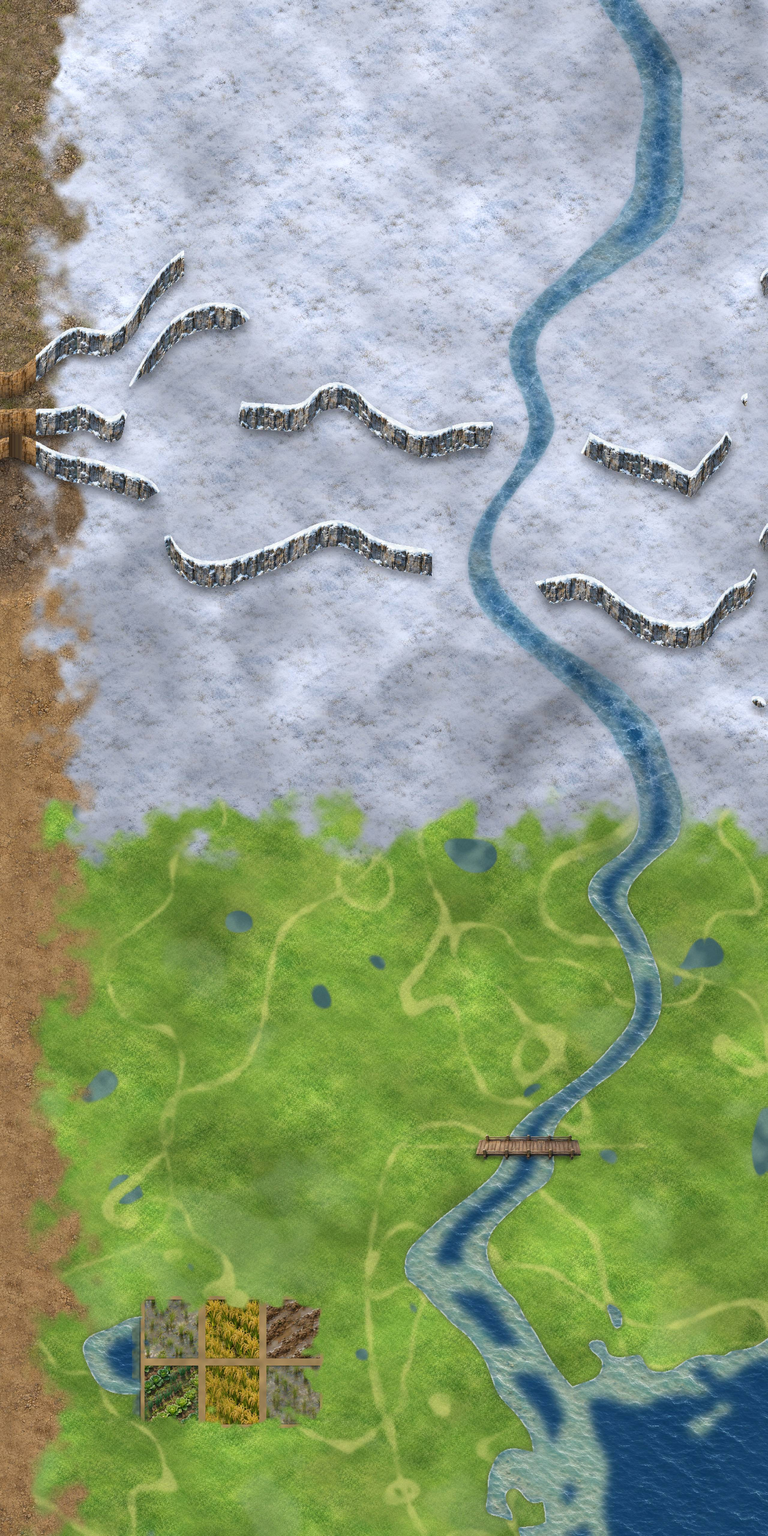
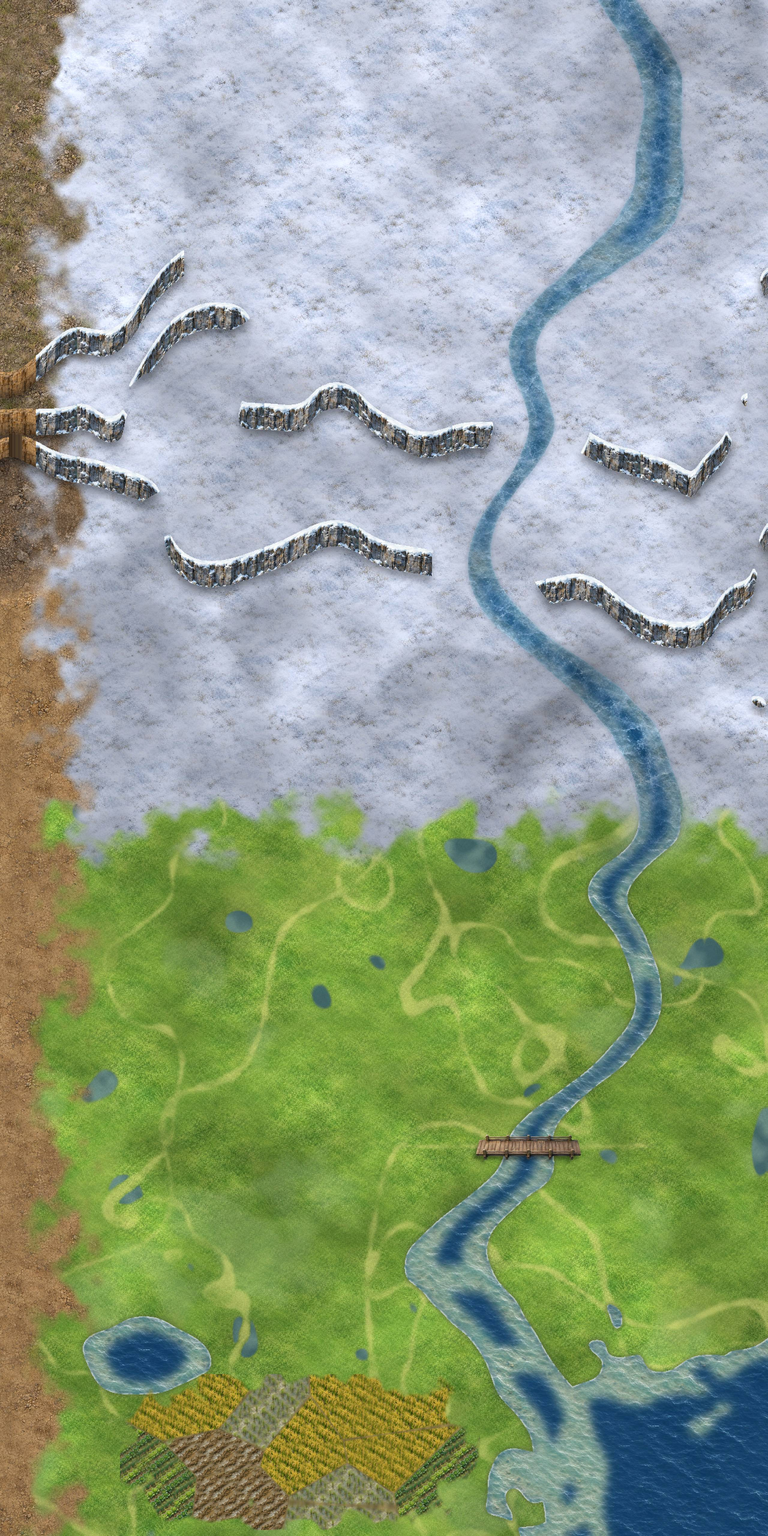
删除所有农田、村落、房屋；草原最南端用代码生成一块农田示例
Claude-Session: https://claude.ai/code/session_011WrGna6yNwTfpmyp4CxMHs

Changed region(s): [[0.1562, 0.8438, 0.625, 1.0]]

diff --git a/tools/build_mountain.py b/tools/build_mountain.py
@@ -131,21 +131,28 @@ dirt=tile_big(G[0],Wd,Wd,99)*1.14
 a=(up(ramp)*0.9)[...,None]
 base=base*(1-a)+dirt*a
 del dirt,a
-# ---------- 农田区（绿地西南，田埂分块）----------
-FX0,FX1,FY0,FY1=1500,1820,2160,2380
+# ---------- 农田（代码生成示例）：草原最南端 ----------
+FX0,FX1,FY0,FY1=1480,2080,2290,2550
 S1=load('farm1.png'); fw_,fh_=(FX1-FX0)*HD,(FY1-FY0)*HD
-tl=[tile_big(seamless(S1[250:504,x0+8:x0+262]),fw_,fh_,300+i) for i,x0 in enumerate((32,338,645,951))]
-dirtc=np.median(S1[790:860,395:440].reshape(-1,3),0).astype(np.float32)
-watc=np.median(S1[700:1000,750:780].reshape(-1,3),0).astype(np.float32)
-F=np.zeros((fh_,fw_,3),np.float32)+dirtc*(1+0.05*fbm(30,401,2,fw_,fh_)[...,None])
-types=[0,1,2,3,1,0]; cwp,chp=(fw_-30)//3,fh_//2
-for i,t_ in enumerate(types):
-    r_,c_=divmod(i,3); x0=30+c_*cwp+12; x1=30+(c_+1)*cwp-12; y0=r_*chp+12; y1=(r_+1)*chp-12
-    F[y0:y1,x0:x1]=tl[t_][y0:y1,x0:x1]; F[y0:y0+3,x0:x1]*=0.7; F[y1-3:y1,x0:x1]*=0.8
-F[:,:28]=watc*(1+0.08*fbm(12,402,2,28,fh_)[...,None]); F[:,24:30]*=0.7
-ed=np.minimum(np.minimum(np.arange(fh_)[:,None],fh_-1-np.arange(fh_)[:,None]),np.minimum(np.arange(fw_)[None,:],fw_-1-np.arange(fw_)[None,:])).astype(np.float32)
-al=sstep((ed+24*fbm(40,403,2,fw_,fh_))/46)[...,None]; F*=0.9
+tl=[tile_big(seamless(cv2.resize(S1[250:504,x0+8:x0+262],None,fx=0.5,fy=0.5,interpolation=cv2.INTER_AREA)),fw_,fh_,300+i) for i,x0 in enumerate((32,338,645,951))]
+gm=base[2000*HD:2200*HD,1500*HD:1800*HD].reshape(-1,3).mean(0)
+yy_,xx_=np.mgrid[0:fh_,0:fw_].astype(np.float32)
+sd_=np.random.default_rng(7)
+seeds=np.array([(sd_.uniform(.08,.92)*fw_,sd_.uniform(.12,.88)*fh_) for _ in range(11)],np.float32)
+dd=np.stack([np.hypot(xx_-sx,(yy_-sy)*1.25) for sx,sy in seeds],0)
+o_=np.argsort(dd,0); lab_=o_[0]; d1=np.take_along_axis(dd,o_[:1],0)[0]; d2=np.take_along_axis(dd,o_[1:2],0)[0]
+bund=sstep(1-(d2-d1)/9.0)
+cell_t=[0,1,2,3,1,0,2,1,3,0,1]
+F=np.zeros((fh_,fw_,3),np.float32)
+for i in range(len(seeds)):
+    mk=(lab_==i)[...,None]; F=np.where(mk,tl[cell_t[i]],F)
+F=F*0.9+gm*0.1
+bc=np.array([128,112,70],np.float32)*(1+0.1*fbm(20,411,2,fw_,fh_)[...,None])
+F=F*(1-0.85*bund[...,None])+bc*0.85*bund[...,None]
+sup=(np.abs((xx_-fw_/2)/(fw_/2))**3.2+np.abs((yy_-fh_/2)/(fh_/2))**3.2)
+al=sstep((1.0-sup+0.22*fbm(60,412,2,fw_,fh_))/0.28)[...,None]
 reg=base[FY0*HD:FY1*HD,FX0*HD:FX1*HD]; base[FY0*HD:FY1*HD,FX0*HD:FX1*HD]=reg*(1-al)+F*al
+del dd,o_,tl,F
 Cf=np.clip(base,0,255).astype(np.uint8); del base
 Image.fromarray(Cf[:,:2*CW]).save(OUT+'ground_w.jpg',quality=72,optimize=True)
 Image.fromarray(Cf[:,2*CW:]).save(OUT+'ground.jpg',quality=70,optimize=True)
@@ -156,7 +163,7 @@ blocked=cv2.dilate(face.astype(np.uint8),np.ones((3,3),np.uint8)).astype(bool)&~
 cc=np.array(Image.open(BUILD+'coll_center.png').convert('RGB'))      # 2560 x 1280
 C=np.zeros((N,N,3),np.uint8); C[:,CW:]=cc
 C[:,:CW+OV]=np.where((np.concatenate([np.ones((N,CW),np.float32),1-Mx],1)>0.5)[...,None],0,C[:,:CW+OV])
-C[FY0:FY1,FX0:FX1,0]=0; C[FY0:FY1,FX0:FX0+14,0]=2
+C[FY0:FY1,FX0:FX1,0]=0
 C[...,0]=np.maximum(C[...,0],blocked*1)
 Image.fromarray(C).save(OUT+'coll.png',optimize=True)
 # ---------- 物件 ----------
@@ -276,51 +283,6 @@ for _ in range(80000):
 allo=[o for o in allo if not (FX0-24<o[1]<FX1+24 and FY0-70<o[2]<FY1+24)]
 grid.clear()
 for kk,x,y in allo: grid.setdefault((int(x//CS),int(y//CS)),[]).append((x,y,8))
-FR={'fhouse1':34,'fhouse2':40,'fshed':28,'fgran':22,'fbamb1':22,'fbamb2':14,'fwillow':24,'fpeach':18,'fbuf1':16,'fbuf2':16,'fhay':12,'fpond1':26,'fpond2':26,'frack':14,'fshrine':14,'ftools':8}
-def okf(x,y):
-    if not(24<x<N-24 and 24<y<N-24): return False
-    if x>=CW and cc[y,x-CW,0]!=0: return False
-    return okp(x,y)
-def hamlet(cx,cy,rx,ry,items):
-    for name,cnt in items:
-        n=0
-        for _ in range(6000):
-            x=int(cx+rng.uniform(-rx,rx)); y=int(cy+rng.uniform(-ry,ry))
-            if okf(x,y) and far(x,y,FR[name]): put(name,x,y,FR[name]); n+=1
-            if n>=cnt: break
-hamlet(1660,2145,150,10,[('fhouse2',1),('fhouse1',2),('fshed',1),('fgran',1)])
-hamlet(1660,2118,160,18,[('fbamb1',2),('fbamb2',2),('fpeach',2)])
-hamlet(1660,2270,140,70,[('fbuf1',2),('fbuf2',2)])
-hamlet(1900,2210,30,50,[('fpond1',1),('fpond2',1)])
-hamlet(1510,2150,10,6,[('fshrine',1)])
-hamlet(1845,2270,10,80,[('fhay',3),('ftools',2)])
-for cx,cy,its in ((1650,990,[('fhouse1',2),('fhouse2',1),('fshed',1),('fgran',1),('fhay',2)]),(1600,1560,[('fhouse1',2),('fshed',1),('fhay',2),('fpeach',1)])):
-    for dx_,dy_ in ((0,0),(120,0),(-120,40),(0,90),(150,80),(-60,-80)):
-        x_,y_=cx+dx_,cy+dy_
-        if okf(x_,y_) and not nearcl[y_,x_] and wdm[y_,x_-CW]>90: hamlet(x_,y_,70,45,its); break
-n_=0
-for _ in range(60000):
-    x=int(rng.integers(CW+30,N-30)); y=int(rng.integers(1300,N-30)); xl=x-CW
-    if seaz[y,xl] or cc[y,xl,0]!=0 or not(12<drv[y,xl]<40) or not okf(x,y) or not far(x,y,24): continue
-    put('fwillow',x,y,24); n_+=1
-    if n_>=4: break
-for _ in range(4000):
-    y=int(rng.integers(2120,2260)); xs_=np.where(cc[y,:,0]==0)[0]; xs_=xs_[(xs_+CW<2260)&(xs_+CW>2100)]
-    if len(xs_)==0: continue
-    x=int(xs_[np.argmax(wdm[y,xs_]<9)])+CW if (wdm[y,xs_]<9).any() else 0
-    if x and okf(x,y) and far(x,y,30): put('fdockboat',x,y,2); break
-n_=0
-for _ in range(30000):
-    x=int(rng.integers(2150,2330)); y=int(rng.integers(2050,2400))
-    if cc[y,x-CW,0]!=1 or seaz[y,x-CW] or not far(x,y,40): continue
-    put('fboat',x,y,2); n_+=1
-    if n_>=2: break
-n_=0
-for _ in range(60000):
-    x=int(rng.integers(CW+30,N-30)); y=int(rng.integers(1300,N-30)); xl=x-CW
-    if seaz[y,xl] or cc[y,xl,0]!=0 or not(10<drv[y,xl]<26) or not okf(x,y) or not far(x,y,16): continue
-    put('frack',x,y,14); n_+=1
-    if n_>=2: break
 print('objs',len(allo))
 size={**cw['size'],**sizes}
 cr={**cw['coll_r'],'mpine1':5,'mpine2':5,'mdead':5,'mrock':8}
